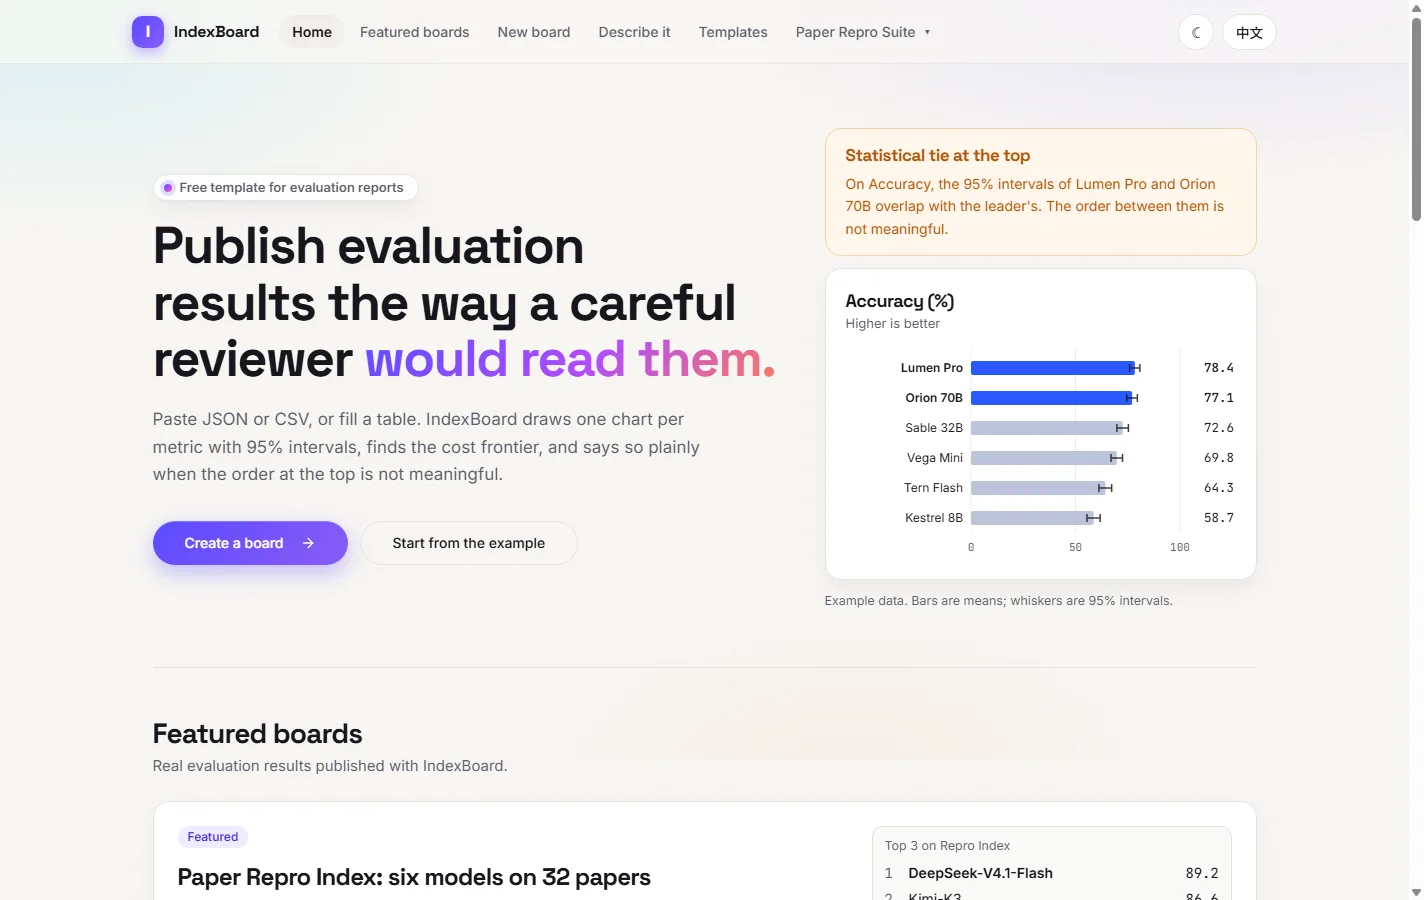
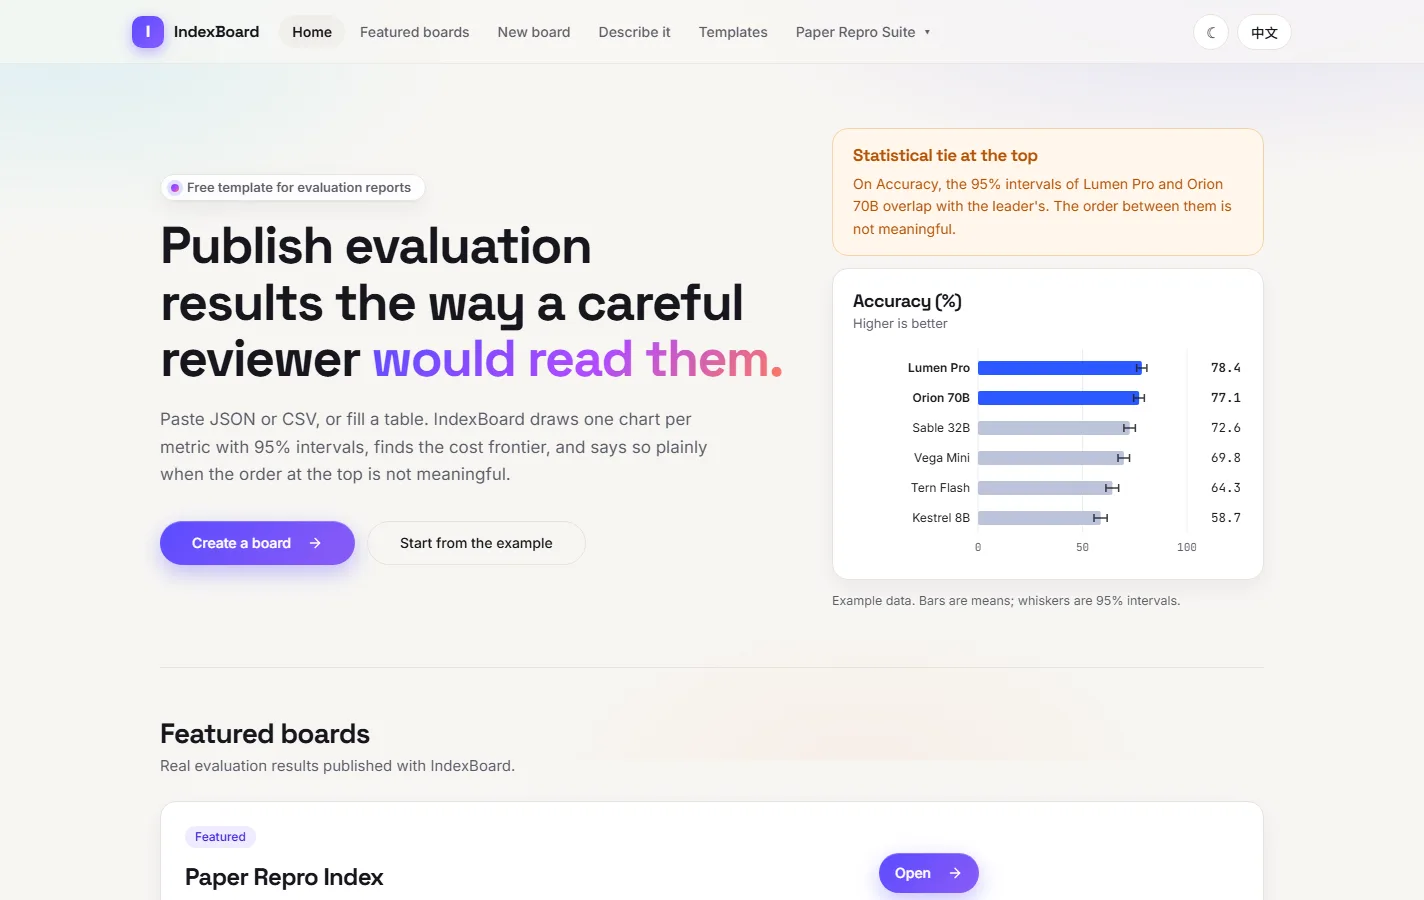
fix(ui): showcase chips stay inside frame, autoplay runs with reduced motion, screenshots without scrollbar, drop duplicate hero chips

diff --git a/app/frontend/src/pages/Index.tsx b/app/frontend/src/pages/Index.tsx
@@ -1,6 +1,6 @@
 import { useEffect, useRef, useState, type ReactNode } from 'react';
 import SuiteTopBar from '@/components/SuiteTopBar';
-import { Chip, ChipGroups, Icon, Reveal, SectionHead, ShowcaseFrame, SpotCard } from '@/components/SuiteUI';
+import { Icon, Reveal, SectionHead, ShowcaseFrame, SpotCard } from '@/components/SuiteUI';
 import { SuiteFaq, SuiteCta } from '@/components/SuiteFooter';
 import {
   COPY,
@@ -465,28 +465,6 @@ export default function Index() {
               { key: 'indexboard', label: 'IndexBoard', url: 'bryan273.github.io/repro-suite/indexboard', src: SHOTS.indexboard, alt: t.shotAlt('IndexBoard') },
               { key: 'desk', label: 'Repro Desk', url: 'bryan273.github.io/repro-suite/desk', src: SHOTS.reproDesk, alt: t.shotAlt('Repro Desk') },
             ]}
-            chips={(k) =>
-              k === 'repro' ? (
-                <Chip pos="b" label={lang === 'zh' ? '论文报告 0.85' : 'paper reports 0.85'} value="0.849" tag={lang === 'zh' ? '✓ 已复现' : '✓ Reproduced'} />
-              ) : k === 'explainer' ? (
-                <Chip pos="b" label={lang === 'zh' ? '解说视频' : 'explainer video'} value="0:58" />
-              ) : null
-            }
-          />
-          <ChipGroups
-            groups={
-              lang === 'zh'
-                ? [
-                    { title: '对比的模型', items: ['DeepSeek-V4.1', 'Kimi-K3', 'GLM-5.3', 'Qwen3.8'] },
-                    { title: '可输入的论文', items: ['arXiv 链接', 'PDF 链接', 'DOI'] },
-                    { title: '输出语言', items: ['English', '中文'] },
-                  ]
-                : [
-                    { title: 'Models compared', items: ['DeepSeek-V4.1', 'Kimi-K3', 'GLM-5.3', 'Qwen3.8'] },
-                    { title: 'Papers you can paste', items: ['arXiv link', 'PDF link', 'DOI'] },
-                    { title: 'Output language', items: ['English', '中文'] },
-                  ]
-            }
           />
         </section>
 

diff --git a/app/frontend/src/components/suite-ui.css b/app/frontend/src/components/suite-ui.css
@@ -73,10 +73,10 @@
 .su-frame img { display: block; width: 100%; height: auto; }
 .su-chip { position: absolute; padding: 12px 16px; border-radius: 16px; background: color-mix(in srgb, var(--su-card) 92%, transparent); border: 1px solid var(--su-line); box-shadow: var(--su-shadow-2); text-align: left; animation: su-float 7s ease-in-out infinite; backdrop-filter: blur(10px); -webkit-backdrop-filter: blur(10px); }
 .su-chip small { display: block; font: 600 11px/1 'JetBrains Mono', monospace; letter-spacing: 0.05em; text-transform: uppercase; color: var(--su-text2); }
-.su-chip strong { display: block; margin-top: 6px; font: 700 28px/1 'Space Grotesk', sans-serif; letter-spacing: -0.03em; }
+.su-chip strong { display: block; margin-top: 6px; font: 700 24px/1 'Space Grotesk', sans-serif; letter-spacing: -0.03em; }
 .su-chip em { display: inline-block; margin-top: 8px; padding: 4px 10px; border-radius: 999px; font: 600 12px/1 Inter, sans-serif; font-style: normal; color: #136f36; background: #e6f4ea; }
 :root[data-theme='dark'] .su-chip em, .dark .su-chip em { color: #4ade80; background: #11291a; }
-.su-chip.a { left: -2%; bottom: 14%; } .su-chip.b { right: -2%; top: 18%; animation-delay: -3.2s; }
+.su-chip.a { left: 3%; bottom: 12%; } .su-chip.b { right: 3%; top: 16%; animation-delay: -3.2s; }
 @keyframes su-float { 0%, 100% { transform: translateY(-5px); } 50% { transform: translateY(7px); } }
 @media (max-width: 760px) { .su-chip { display: none; } .su-frame { transform: none; } .su-hero { padding-top: 48px; } }
 

diff --git a/app/frontend/src/components/SuiteUI.tsx b/app/frontend/src/components/SuiteUI.tsx
@@ -170,7 +170,7 @@ export function ShowcaseFrame({ slides, interval = 4500, chips }: { slides: Slid
     return () => io.disconnect();
   }, []);
   useEffect(() => {
-    if (hold || !seen || window.matchMedia('(prefers-reduced-motion: reduce)').matches) return;
+    if (hold || !seen) return; // slides swap by a plain fade, so this runs even with reduced motion (CSS drops the fade itself)
     const t = setInterval(() => {
       if (!document.hidden) setI((n) => (n + 1) % slides.length);
     }, interval);
@@ -195,7 +195,7 @@ export function ShowcaseFrame({ slides, interval = 4500, chips }: { slides: Slid
       {chips?.(cur.key)}
       <div className="su-tabs" role="tablist" aria-label="Apps">
         {slides.map((s, k) => (
-          <button key={s.key} type="button" role="tab" aria-selected={k === i} className={k === i ? 'on' : ''} onClick={() => { setI(k); setHold(true); }}>
+          <button key={s.key} type="button" role="tab" aria-selected={k === i} className={k === i ? 'on' : ''} onClick={() => { setI(k); setHold(true); window.setTimeout(() => setHold(false), 12000); }}>
             {s.label}
           </button>
         ))}
